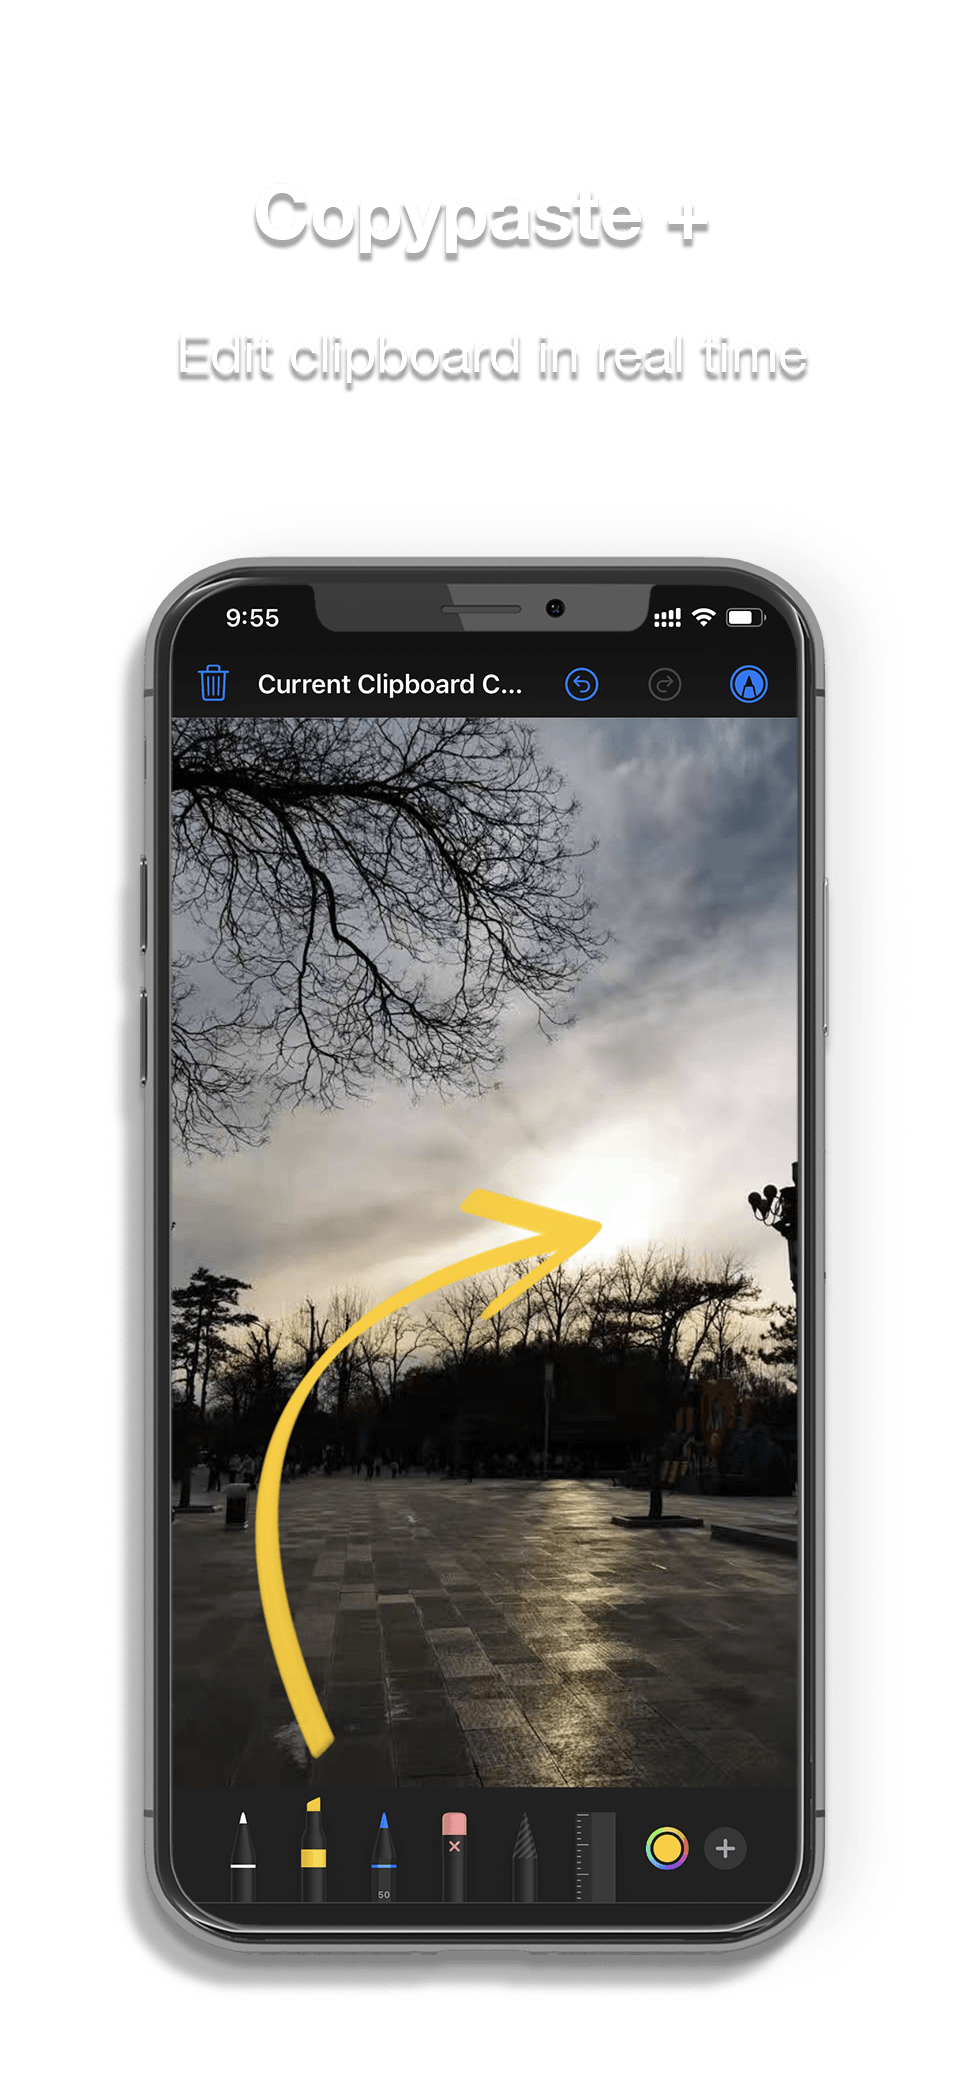
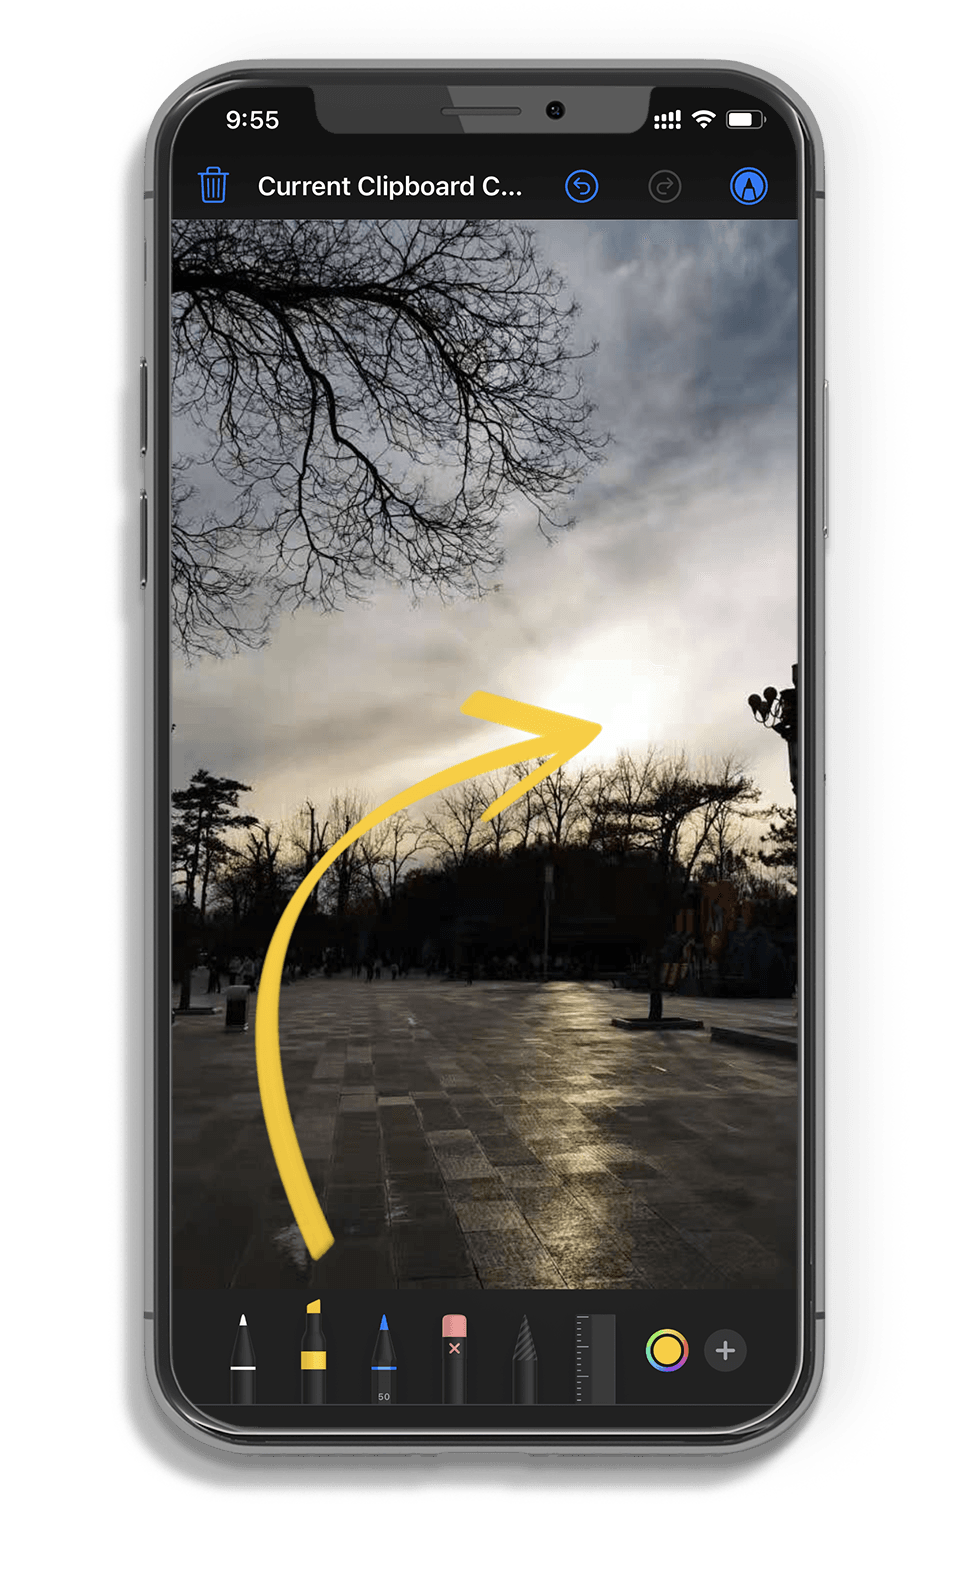
auto detect language, move text from image to html

diff --git a/copypasteplus/index.html b/copypasteplus/index.html
@@ -2,24 +2,100 @@
 <html lang="en">
   <head>
     <meta charset="UTF-8" />
-    <meta name="apple-itunes-app" content="app-id=1543863305">
+    <meta name="apple-itunes-app" content="app-id=1543863305" />
     <meta name="viewport" content="width=device-width, initial-scale=1.0" />
     <title>CopyPaste+</title>
     <style>
+      [v-cloak] > * {
+        display: none;
+      }
+      * {
+        font-family: Arial, Helvetica, sans-serif;
+        margin: 0;
+        padding: 0;
+      }
+      #app {
+        display: flex;
+        flex-direction: column;
+        height: 100vh;
+        color: white;
+        text-align: center;
+      }
+      h2 {
+        margin: 20px 0;
+      }
+      p{
+        margin: 0 auto;
+        max-width: 80%;
+      }
       body {
-        background: url(./assets/title_phone.png) no-repeat center center fixed;
-        background-size: contain;
         background-color: #37a0e2;
       }
+      #image {
+        background: url(./assets/title_phone.png) no-repeat center top;
+        background-size: contain;
+        flex-grow: 1;
+      }
 
-      @media (min-aspect-ratio: 1/1) {
-        body {
-          background: url(./assets/title.png) no-repeat center center fixed;
-          background-size: contain;
-          background-color: #37a0e2;
+      @media only screen and (min-aspect-ratio: 1/1) {
+        #image {
+          background-image: url(./assets/title.png);
         }
       }
     </style>
   </head>
-  <body></body>
+  <body>
+    <div id="app" v-cloak>
+      <h2>{{ 'Copypaste+'.translate() }}</h2>
+      <pre >{{ 'Edit Clipboard in Real Time'.translate() }}</pre>
+      <div id="image"></div>
+    </div>
+  </body>
+  <script src="../lib/main.js"></script>
+  <script>
+    $cm("com.horidream.app.copypageplus.web", "#app", {
+      data() {
+        return {
+          size:{
+            width: window.innerWidth,
+            height: window.innerHeight
+          },
+          localization: {
+            cn: {
+              "Copypaste+": "剪贴板+",
+              "Edit Clipboard in Real Time":
+`
+实时编辑、创建、删除剪贴板内容
+iCloud、本地、文件三种备份方式
+朗读文本、转换文本为图片
+为文字添加场景背景
+存储内容加解密
+合成文字图片
+`,
+            },
+            en:{
+              "Edit Clipboard in Real Time":
+`Edit, create or delete clipboard in real time
+Three backup methods: iCloud, local or file
+Read text aloud, convert text to image 
+Encrypt and decrypt stored content 
+Add scene background to text
+Compose text images`
+            }
+          },
+        };
+      },
+      mounted() {
+        this.state.language = window.navigator.language == "zh" ? "cn" : "en";
+        var self = this;
+        window.addEventListener("resize", function(){
+          Object.assign(self.size, {
+            width: window.innerWidth,
+            height: window.innerHeight
+          })
+          console.log(self.size)
+        })
+      },
+    });
+  </script>
 </html>
